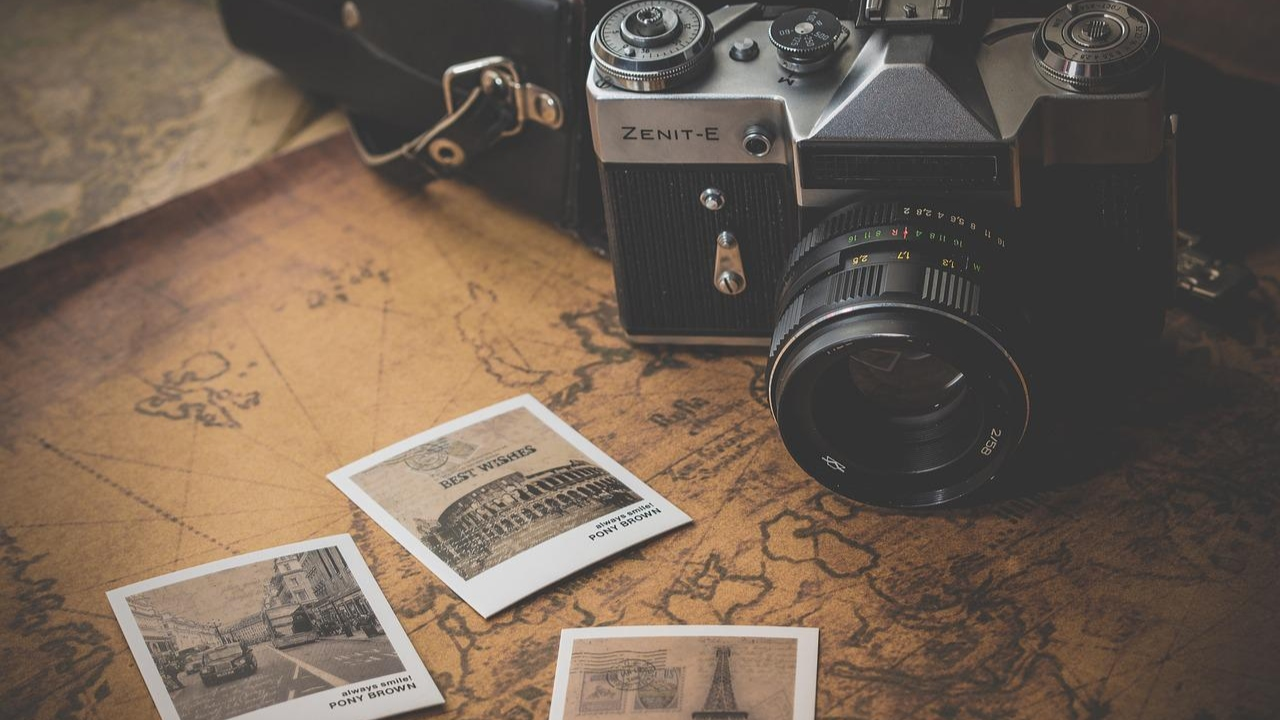
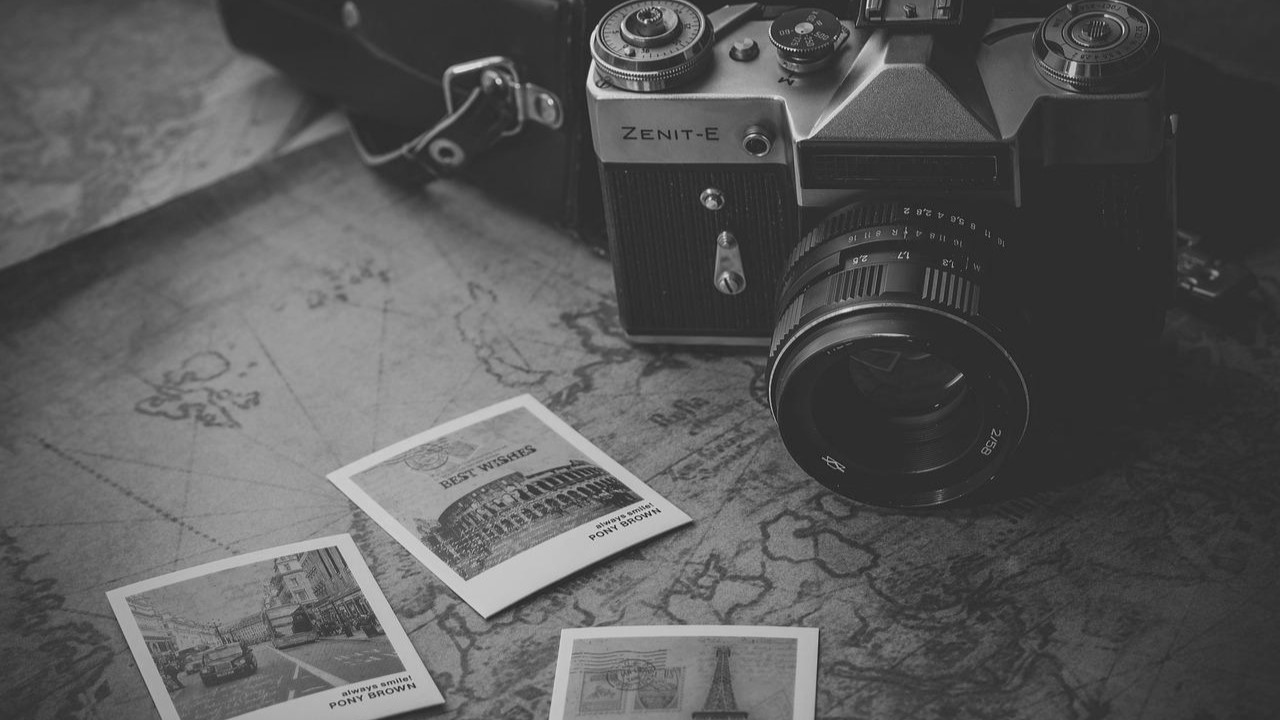
Funcionalidade para alteração de tema, unificação do CSS e estilização geral

diff --git a/frontend/css/style.css b/frontend/css/style.css
@@ -1,13 +1,60 @@
+:root{
+    --cor-branca: white;
+    --cor-preta: black;
+}
 * {
     margin: 0;
     padding: 0;
     box-sizing: border-box;
 }
-
-body {
+/* CONFIGURAÇÕES GERAIS */
+.botao-primario{
+    background-color: var(--cor-branca); /* Fundo Branco */
+    color: var(--cor-preta);  
+    border-color: transparent;          /* Texto Preto */
+    border-radius: 0px;        /* QUADRADO PERFEITO */
+    padding: 12px 30px;
+    font-weight: bold;
+    text-transform: uppercase;
+    cursor: pointer;
+    transition: background 0.2s;
+}
+.botao-primario:hover{
+    background-color: transparent;
+    border-color: var(--cor-branca);
+    color: var(--cor-branca);
+}
+.botao-secundario{
+    background-color: transparent; /* Fundo Transparente */
+    color: var(--cor-branca);            /* Texto brancp */
+    border-color: var(--cor-branca);
+    border-radius: 0px;        /* QUADRADO PERFEITO */
+    padding: 12px 30px;
+    font-weight: bold;
+    text-transform: uppercase;
+    cursor: pointer;
+    transition: background 0.2s;
+}
+.botao-secundario:hover{
+    background-color: var(--cor-branca);
+    color: var(--cor-preta);
+}
+input{
+    padding: 10px;
+    color: var(--cor-branca);
+    background-color: transparent;
+    border: var(--cor-preta);
+    outline: none;
+    border-bottom: gray 1px solid;
+}
+input:focus{
+    border-bottom: 1px solid var(--cor-branca);
+}
+/* ------- PÁGINA INDEX ------- */
+#pagina-index{
     margin: 0;
-    background-color: black;
-    color: white;
+    background-color: var(--cor-preta);
+    color: var(--cor-branca);
     font-family: Arial, Helvetica, sans-serif;
     font-variant: small-caps;
 }
@@ -71,12 +118,63 @@ a {
     margin: 0 auto;
     gap: 8px;
 }
-
+#pesquisa {
+    width: 300px;
+}
 .barra-pesquisa button {
     display: flex;
     gap: 8px;
-   border-radius: 20px; 
-  border: 1px solid #ddd;
-  padding: 6px 12px;
+    border-radius: 20px; 
+    border: 1px solid #ddd;
+    padding: 6px 12px;
+}
 
+/* ------------- LOGIN PAGE -----------*/
+#pagina-login{
+    margin: 0;
+    background-color: var(--cor-preta);
+    color: var(--cor-branca);
+    font-family: 'Helvetica Neue', Arial, sans-serif;
+    font-variant: small-caps;
+}
+.login-geral{
+    display: flex;
+    width: 100%;
+    height: 100vh;
+}
+.login-background{
+    max-width: 60%;
+    background-color: var(--cor-branca);
+    overflow: hidden;
+}
+.login-background img{
+    width: 100%;
+    height: 100%;
+    object-fit: cover;
+}
+.login-formulario, .cadastro-formulario{
+    background-color: var(--cor-preta);
+    display: flex;
+    flex-direction: column;
+    width: 40%;
+    margin: auto 0;
+    align-items: center;
+}
+.login-formulario > *{
+    width: 400px;
+    margin-top: 20px;
+}
+.cadastro-formulario > *{
+    width: 400px;
+    margin-top: 20px;
+}
+.botoes-login{
+    display: flex;
+    gap: 30px;
+    align-items: center;
+    justify-content: center;
+}
+/* desaparece com todo o 'container'*/
+.escondido{
+    display: none !important;
 }

diff --git a/frontend/js/index.js b/frontend/js/index.js
@@ -1,0 +1,20 @@
+let temaEscuro = false;
+// ---- ELEMENTOS DE TEMAS ----
+const botaoTema = document.querySelector('#botao-tema');
+//Evento para alternar entre tema claro e escuro, utilizando variaveis CSS para facilitar a manutenção do codigo
+// Alterna o tema entre claro e escuro
+botaoTema.addEventListener('click', function(){
+    if(temaEscuro){
+        document.documentElement.style.setProperty('--cor-preta', '#0b0b0b');
+        document.documentElement.style.setProperty('--cor-branca', '#ffffff');
+        temaEscuro = false;
+        document.querySelector('#botao-tema i').classList.remove('fa-sun');
+        document.querySelector('#botao-tema i').classList.add('fa-moon');
+    }else{
+        document.documentElement.style.setProperty('--cor-preta', '#ffffff');
+        document.documentElement.style.setProperty('--cor-branca', '#0b0b0b');
+        temaEscuro = true;
+        document.querySelector('#botao-tema i').classList.remove('fa-moon');
+        document.querySelector('#botao-tema i').classList.add('fa-sun');
+    }
+});

diff --git a/frontend/index.html b/frontend/index.html
@@ -10,7 +10,7 @@
     <title>Index</title>
 </head>
 
-<body>
+<body id = "pagina-index">
   <section>
     <div class="hero-content">
       <div class="hero">
@@ -27,24 +27,28 @@
 <nav class="menu-navegacao">
   <ul>
     <li>
-      <button>
+      <button class = "botao-primario">
         <a href="#"><i class="fas fa-home"></i> Início</a>
       </button>
     </li>
     <li>
-      <button>
+      <button class="botao-secundario">
         <a href="../frontend/login.html"><i class="fas fa-jelly fa-regular fa-door-closed"></i> Login</a>
       </button>
     </li>
   </ul>
 
   <div class="barra-pesquisa">
-    <input type="text" placeholder="Pesquisar...">
-    <button class="botao-pesquisa">
+    <input id="pesquisa" type="text" placeholder="Pesquisar...">
+    <button class="botao-primario" id="botao-pesquisa">
       <i class="fas fa-search"></i>
+    </button>
+    <button class="botao-secundario" id="botao-tema">
+      <i class="fas fa-moon"></i>
     </button>
   </div>
 </nav>
+<script src="js/index.js"></script>
 </body>
 
 </html>

diff --git a/frontend/login.html b/frontend/login.html
@@ -1,6 +1,6 @@
 <!DOCTYPE html>
 <html lang="pt-br">
-<link rel="stylesheet" href="../frontend/css/login.css">
+<link rel="stylesheet" href="../frontend/css/style.css">
 
 <head>
     <meta charset="UTF-8">
@@ -8,15 +8,15 @@
     <title>Login</title>
 </head>
 
-<body>
+<body id = "pagina-login">
 
     <div class=login-geral>
         <div class=login-formulario id="container-login">
             <input type="text" id = nome-login placeholder="Login">
             <input type="password" id = senha-login placeholder="Senha">
             <div class=botoes-login>
-                <button type="button" id=botao-login> Login </button>
-                <button type="button" id=botao-nova-conta> Criar conta </button>
+                <button type="button" class="botao-primario" id="botao-login"> Login </button>
+                <button type="button" class="botao-secundario" id="botao-nova-conta"> Criar conta </button>
             </div>
         </div>
 
@@ -25,8 +25,8 @@
             <input type="text" id="novo-usuario" placeholder="Escolha um Usuário">
             <input type="password" id="nova-senha" placeholder="Crie uma Senha">
             <input type="password" id="nova-senha-confirma" placeholder="Confirme a Senha">
-            <button type="button" id="botao-cadastro"> Cadastrar </button>
-            <button type="button" id="botao-voltar"> Voltar </button>
+            <button type="button" class="botao-primario" id="botao-cadastro"> Cadastrar </button>
+            <button type="button" class="botao-secundario" id="botao-voltar"> Voltar </button>
         </div> 
         <div class=login-background>
             <img src="imagens/capalogin.jpg" alt="fundologin">

diff --git a/frontend/js/login.js b/frontend/js/login.js
@@ -1,6 +1,7 @@
 // Variaveis padrao para teste
 let usuarioCadastro = "Teste";
 let usuarioSenha = "123";
+
 // ---- ELEMENTOS LOGIN ----
 const botaoLogin = document.querySelector('#botao-login');
 const inputNome = document.querySelector('#nome-login');